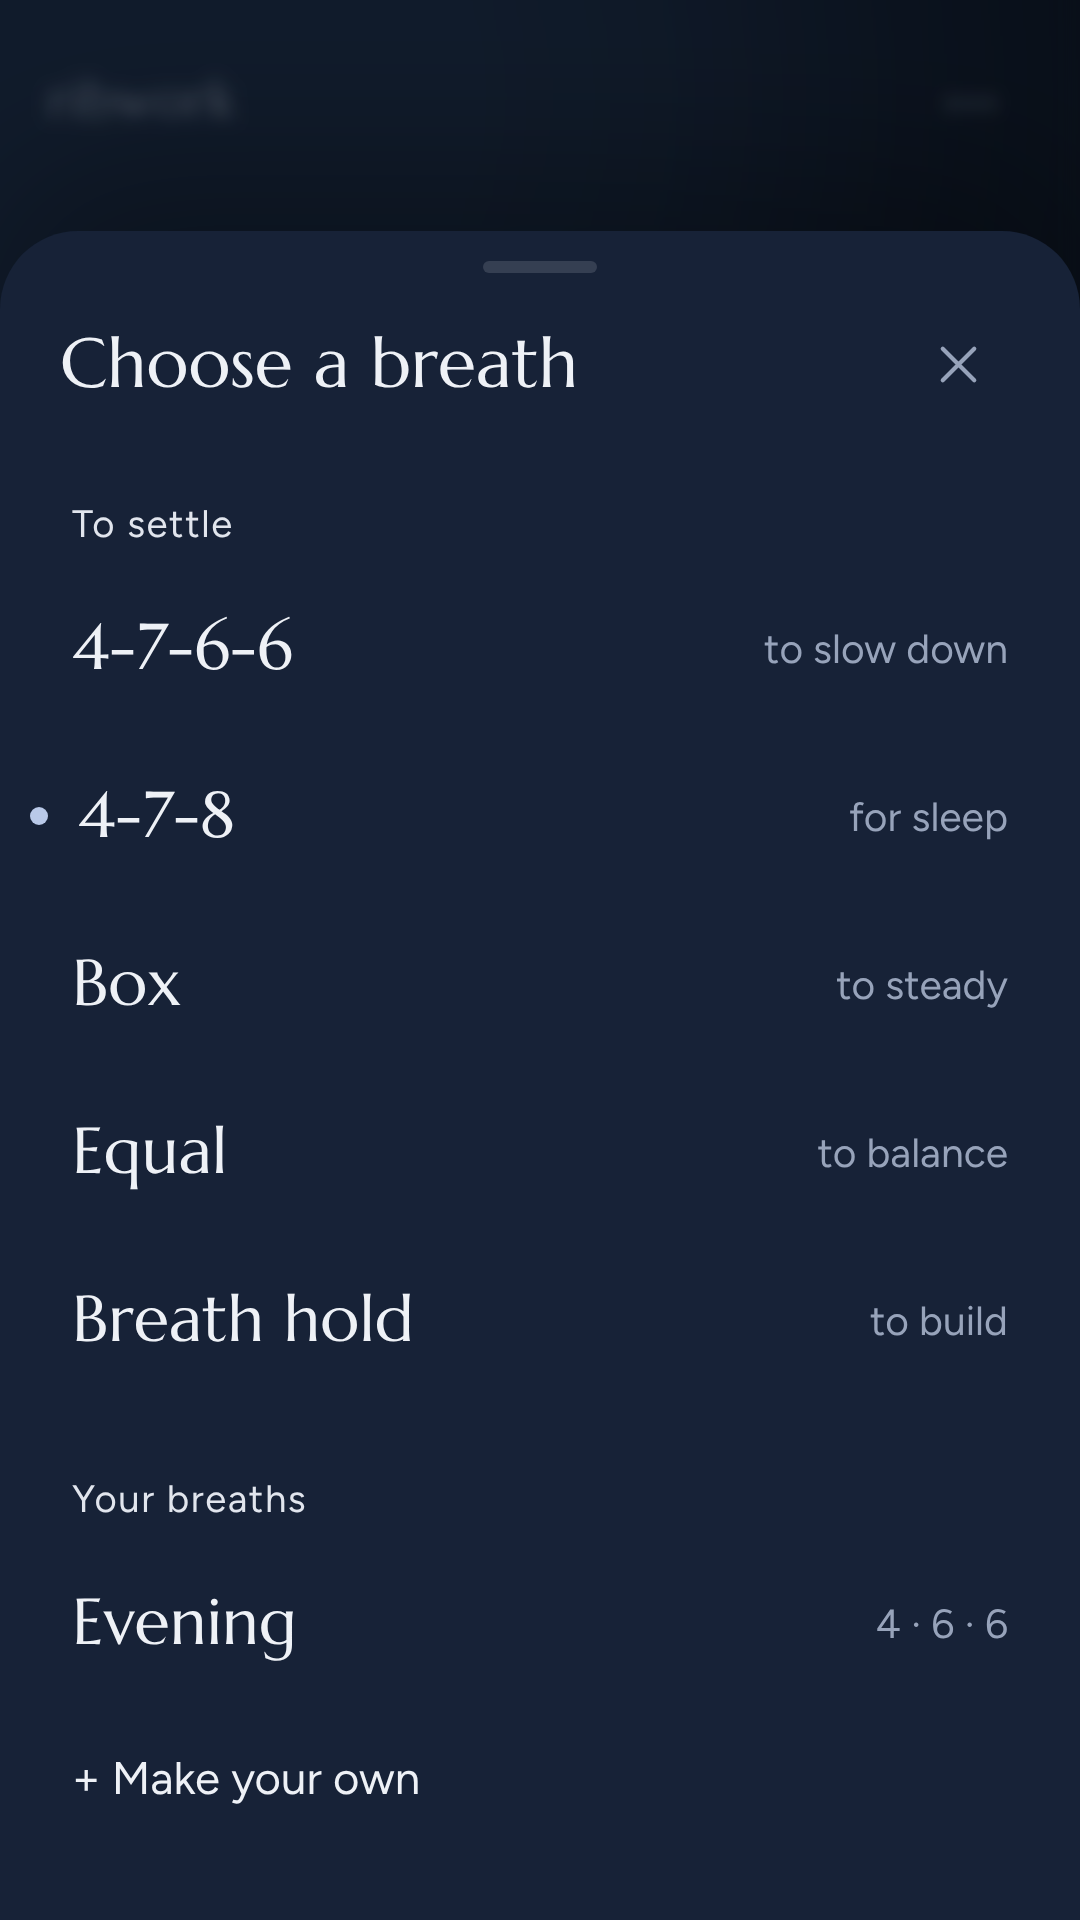
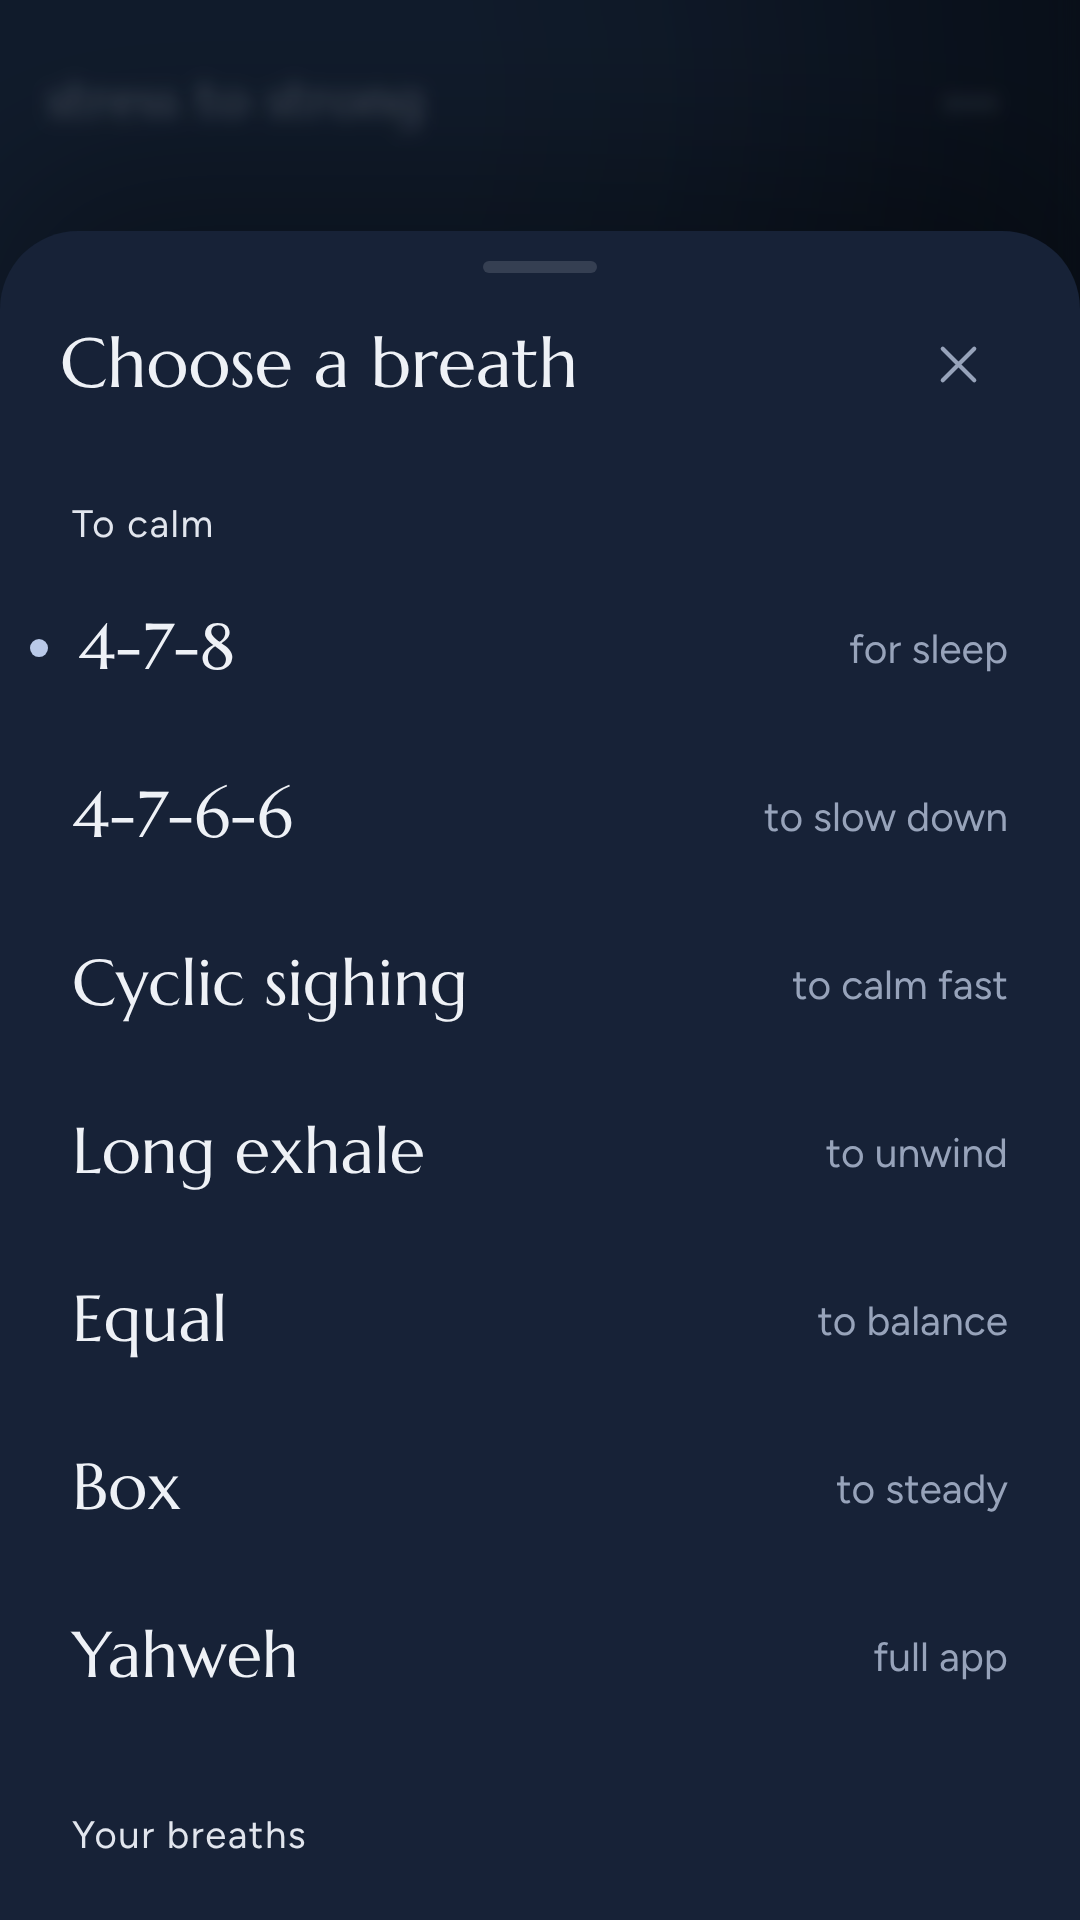
Rename to Stress to Strong; add cyclic sighing and long exhale
- New name: "Stress to Strong: Breathe" on Play, "Stress→Strong" under the
  launcher icon, "Stress to Strong" in the app header, menu, page title,
  web manifest and privacy policy. Package ID, purchase ID and saved data
  are unchanged.
- Cyclic sighing (free): in through the nose, a short top-up, then a long
  breath out.
- Long exhale (free): in 4, out 8.
- The breath list is grouped as "To calm" and "To build"; new installs
  start on 4-7-8.
- Privacy policy notes that the daily reminder stays on the device.
- New Play title, short and full description, screenshots and feature
  graphic.
- versionCode 10 / 3.1.0, service worker cache ribwork-v8.

Claude-Session: https://claude.ai/code/session_01AU9giQamNVHAvDZbgnuzeV

diff --git a/breathe/index.html b/breathe/index.html
@@ -3,8 +3,8 @@
 <head>
 <meta charset="UTF-8">
 <meta name="viewport" content="width=device-width, initial-scale=1.0, viewport-fit=cover">
-<title>Ribwork</title>
-<meta name="description" content="Ribwork breathwork for your ribcage and midline: breath training with deep breathing exercises: guided 4-7-6-6 breathing with sound, voice and vibration cues, plus resisted breathing, belt breaths, Valsalva and Müller maneuvers. Works offline, no account, no ads.">
+<title>Stress to Strong</title>
+<meta name="description" content="Stress to Strong: calm breathing first, then build your breath. 4-7-8, 4-7-6-6, cyclic sighing, long exhales, box and equal breathing, breath-hold practice, plus resisted breathing, belt breaths, Valsalva and Müller maneuvers. Works offline, no account, no ads.">
 <meta name="theme-color" content="#0e1522">
 <link rel="manifest" href="manifest.webmanifest">
 <link rel="icon" href="icon.svg" type="image/svg+xml">
@@ -590,7 +590,7 @@
 
 <div class="app">
   <header>
-    <div class="brand"><b>Ribwork</b><span id="brandTag">4 · 7 · 6 · 6</span></div>
+    <div class="brand"><b>Stress to Strong</b><span id="brandTag">4 · 7 · 6 · 6</span></div>
     <nav class="tools" aria-label="Menu">
       <button class="icon-btn" id="btn-menu" type="button" aria-label="Menu" aria-haspopup="dialog">
         <svg viewBox="0 0 24 24" fill="currentColor" aria-hidden="true"><circle cx="5" cy="12" r="1.6"/><circle cx="12" cy="12" r="1.6"/><circle cx="19" cy="12" r="1.6"/></svg>
@@ -666,7 +666,7 @@
 <dialog id="dlg-menu" aria-labelledby="menu-title">
   <div class="sheet">
     <div class="grabber"></div>
-    <div class="sheet-head"><h2 id="menu-title">Ribwork</h2><button class="icon-btn" type="button" data-close aria-label="Close"><svg viewBox="0 0 24 24" fill="none" stroke="currentColor" stroke-width="1.6" stroke-linecap="round"><path d="M6 6l12 12M18 6L6 18"/></svg></button></div>
+    <div class="sheet-head"><h2 id="menu-title">Stress to Strong</h2><button class="icon-btn" type="button" data-close aria-label="Close"><svg viewBox="0 0 24 24" fill="none" stroke="currentColor" stroke-width="1.6" stroke-linecap="round"><path d="M6 6l12 12M18 6L6 18"/></svg></button></div>
     <div class="menu-list">
       <button class="menu-row" id="btn-info" type="button">About this breath</button>
       <button class="menu-row" id="btn-stats" type="button">Your practice</button>
@@ -1002,7 +1002,7 @@
     set(k, v) { try { localStorage.setItem(k, JSON.stringify(v)); } catch {} },
   };
   const DEFAULTS = {
-    ex: '4766', minutes: 5, rounds: 3, method: 'pinched', vStrain: 10, mStrain: 8, recovery: 45,
+    ex: '478', minutes: 5, rounds: 3, method: 'pinched', vStrain: 10, mStrain: 8, recovery: 45,
     sound: 'bowl', ambience: 'none', volume: 0.7, voice: false, haptics: true, counts: false, scene: 'auto', remind: { on: false, time: '21:00' },
   };
   const set = Object.assign({}, DEFAULTS, store.get('ribwork.settings', {}));
@@ -1065,20 +1065,20 @@
   const ADV = ['4766', 'valsalva', 'muller', 'resisted', 'belt'];
   // The exercise sheet: free breaths first, then the full app.
   const EX_GROUPS = [
-    { label: 'To settle', ids: ['4766', '478', 'box', 'equal', 'hold'] },
+    { label: 'To calm', ids: ['478', '4766', 'sigh', 'long', 'equal', 'box', 'yahweh'] },
     { label: 'Your breaths', custom: true, ids: [] },
-    { label: 'To train your ribs', ids: ['yahweh', 'bunny', 'resisted', 'belt', 'valsalva', 'muller'] },
+    { label: 'To build', ids: ['hold', 'resisted', 'belt', 'valsalva', 'muller', 'bunny'] },
   ];
   const BLURB = {
-    '4766': 'Slow everything down', '478': 'Wind down for sleep', box: 'Steady under pressure', hold: 'Longer holds, step by step',
+    '4766': 'Slow everything down', '478': 'Wind down for sleep', box: 'Steady under pressure', sigh: 'Two breaths in, one long out', long: 'Out twice as long as in', hold: 'Longer holds, step by step',
     yahweh: 'A silent breath prayer', bunny: 'Quick sniffs to reset', resisted: 'Pinched nose or fist pinhole',
     belt: 'Ribs, arms and twists', valsalva: 'Bear down, then recover', muller: 'Pull in, then recover',
   };
-  const PICK_NAME = { '4766': '4-7-6-6 breathing', '478': '4-7-8 breathing', box: 'Box breathing', equal: 'Equal breathing', hold: 'Breath-hold practice', holdcheck: 'Hold check' };
+  const PICK_NAME = { '4766': '4-7-6-6 breathing', '478': '4-7-8 breathing', box: 'Box breathing', equal: 'Equal breathing', sigh: 'Cyclic sighing', long: 'Long exhale', hold: 'Breath-hold practice', holdcheck: 'Hold check' };
   // What each breath is for, in the quiet list.
   const PURPOSE = {
-    '4766': 'to slow down', '478': 'for sleep', box: 'to steady', equal: 'to balance', hold: 'to build',
-    yahweh: 'to pray', bunny: 'to reset', resisted: 'to strengthen', belt: 'to expand', valsalva: 'to brace', muller: 'to pull in',
+    '4766': 'to slow down', '478': 'for sleep', sigh: 'to calm fast', long: 'to unwind', box: 'to steady', equal: 'to balance', yahweh: 'to pray',
+    hold: 'longer holds', resisted: 'breath strength', belt: 'rib expansion', valsalva: 'to brace', muller: 'to pull in', bunny: 'to wake up',
   };
 
   // ---------- Your own breaths ----------
@@ -1162,6 +1162,35 @@
       info: {
         lead: 'In for 5, out for 5, with no holds: six breaths a minute. Matching the length of each breath in and out is one of the simplest ways to steady yourself, and the easiest place to start.',
         how: ['Sit or lie comfortably and let your shoulders drop.', 'Breathe in through your nose for 5, smoothly, without straining to fill up.', 'Breathe out for 5, just as slowly.', 'Keep it soft. If 5 feels long, it gets easier after a minute or two.'],
+        care: 'If you feel lightheaded, return to your normal breathing. This app is for relaxation and is not medical advice.',
+      },
+    },
+    sigh: {
+      name: 'Cyclic sighing', title: 'cyclic sighing', tag: 'Sigh', free: true, unit: ['sigh', 'sighs'],
+      idle: ['Breathe with me', 'two breaths in, one long breath out'],
+      lead: { d: 4, word: 'Settle in', hint: 'breathe out gently', say: 'Settle in' },
+      phases: () => [
+        { k: 'in', vis: 'rise', to: 0.9, word: 'Breathe in', d: 3, hint: 'through the nose, most of the way', say: 'Breathe in', label: 'Inhale' },
+        { k: 'in2', vis: 'rise', from: 0.9, word: 'In again', d: 1, hint: 'a short sip to top up', label: 'Top up' },
+        { k: 'out', vis: 'fall', word: 'Breathe out', d: 6, hint: 'long and slow, through the mouth', say: 'Breathe out', label: 'Exhale' },
+      ],
+      info: {
+        lead: 'Two breaths in through the nose, a long one and a short top-up, then a long, slow breath out through the mouth. Also called the physiological sigh. In a 2023 Stanford study, five minutes of cyclic sighing a day lifted mood more than the same time spent in mindfulness meditation.',
+        how: ['Breathe in through your nose until you are nearly full.', 'Take one more short sip of air through the nose to top up.', 'Let it all go slowly through your mouth, longer than the breaths in.', 'Five minutes is plenty. Keep it gentle, never forced.'],
+        care: 'If you feel lightheaded, return to your normal breathing. This app is for relaxation and is not medical advice.',
+      },
+    },
+    long: {
+      name: 'Long exhale', title: 'long-exhale breathing', tag: '4 · 8', free: true, unit: ['breath', 'breaths'],
+      idle: ['Breathe with me', 'out twice as long as in'],
+      lead: { d: 4, word: 'Settle in', hint: 'breathe out gently', say: 'Settle in' },
+      phases: () => [
+        { k: 'in', vis: 'rise', word: 'Breathe in', d: 4, hint: 'soft, through the nose', say: 'Breathe in', label: 'Inhale' },
+        { k: 'out', vis: 'fall', word: 'Breathe out', d: 8, hint: 'slowly, all the way out', say: 'Breathe out', label: 'Exhale' },
+      ],
+      info: {
+        lead: 'In for 4, out for 8. Making the breath out longer than the breath in is the simplest way to tell your body it can slow down, and it needs no holds.',
+        how: ['Breathe in through your nose for 4.', 'Breathe out for 8, through the nose or softly through pursed lips.', 'Let the end of each breath out be quiet and unhurried.', 'If 8 feels long, it gets easier after a few rounds.'],
         care: 'If you feel lightheaded, return to your normal breathing. This app is for relaxation and is not medical advice.',
       },
     },
@@ -1439,7 +1468,7 @@
     let end = 0;
     for (let i = 0; i < steps.length; i++) { end += steps[i].d; if (t < end || i === steps.length - 1) return { i, step: steps[i], left: end - t }; }
   }
-  const isMinutes = () => ['4766', '478', 'box', 'equal', 'bunny', 'yahweh', 'resisted'].includes(P.id) || !!P.ex.custom;
+  const isMinutes = () => ['4766', '478', 'box', 'equal', 'sigh', 'long', 'bunny', 'yahweh', 'resisted'].includes(P.id) || !!P.ex.custom;
   const cyclesFor = () => {
     if (P.ex.rounds) return P.ex.rounds;
     if (!isMinutes()) return set.rounds;
@@ -1832,7 +1861,7 @@
     if (!Pro.checked) status.textContent = 'Connecting to Google Play…';
     else if (canPay()) status.textContent = Pro.pending ? 'Your payment is pending in Google Play. The full app unlocks once it goes through.' : '';
     else if (isNative) status.textContent = "Couldn't connect to Google Play. Check that you're signed in to the Play Store and online.";
-    else status.textContent = 'The full app unlocks in Ribwork for Android, from Google Play.';
+    else status.textContent = 'The full app unlocks in Stress to Strong for Android, from Google Play.';
   }
   function refreshLocks() {
     el.exercises.querySelectorAll('.ex-btn').forEach((b) => {
@@ -2312,7 +2341,7 @@
   function phaseScale(st) {
     const p = P.ph[st.i], jitter = reduceMotion.matches ? 0 : 1;
     switch (p.vis) {
-      case 'rise': return lerp(SMIN, SMAX, easeInOut(st.p));
+      case 'rise': return lerp(p.from ?? SMIN, p.to ?? SMAX, easeInOut(st.p));
       case 'full': return SMAX + jitter * 0.008 * Math.sin(st.pt * 1.6);
       case 'fall': return lerp(START.fall, SMIN, easeInOut(st.p));
       case 'empty': return SMIN;
@@ -2548,7 +2577,7 @@
   $('btn-remind').addEventListener('click', () => {
     const r = set.remind || { on: false, time: '21:00' };
     $('remOn').checked = !!r.on; $('remTime').value = r.time;
-    $('remStatus').textContent = Native.notes ? '' : 'Reminders work in the Ribwork app for Android.';
+    $('remStatus').textContent = Native.notes ? '' : 'Reminders work in the Stress to Strong app for Android.';
     $('remOn').disabled = !Native.notes; $('remTime').disabled = !Native.notes;
     openDialog('dlg-remind');
   });
@@ -2563,12 +2592,12 @@
       if (perm.display !== 'granted') perm = await n.requestPermissions();
       if (perm.display !== 'granted') {
         r.on = false; saveSettings(); $('remOn').checked = false;
-        $('remStatus').textContent = 'Notifications are turned off for Ribwork. Allow them in your phone settings to get a reminder.';
+        $('remStatus').textContent = 'Notifications are turned off for Stress to Strong. Allow them in your phone settings to get a reminder.';
         return;
       }
       const [hour, minute] = r.time.split(':').map(Number);
       await n.schedule({ notifications: [{
-        id: REMIND_ID, title: 'Time to breathe', body: 'A few calm minutes with Ribwork.',
+        id: REMIND_ID, title: 'Time to breathe', body: 'A few calm minutes to breathe.',
         schedule: { on: { hour, minute }, allowWhileIdle: false }, isExactNotification: false, smallIcon: 'ic_stat_ribwork',
       }] });
       $('remStatus').textContent = `Every day at ${r.time}.`;

diff --git a/breathe/privacy.html b/breathe/privacy.html
@@ -3,7 +3,7 @@
 <head>
 <meta charset="UTF-8">
 <meta name="viewport" content="width=device-width, initial-scale=1.0">
-<title>Privacy Policy — Ribwork</title>
+<title>Privacy Policy — Stress to Strong</title>
 <style>
   body {
     font-family: -apple-system, BlinkMacSystemFont, "Segoe UI", Roboto, Helvetica, Arial, sans-serif;
@@ -24,11 +24,11 @@
 </head>
 <body>
 
-<h1>Privacy Policy for Ribwork</h1>
+<h1>Privacy Policy for Stress to Strong</h1>
 <p class="updated">Last updated: September 29, 2026</p>
 
 <h2>Overview</h2>
-<p>Ribwork ("the App") is a guided breathing app offering 4-7-6-6 breathing and, with a one-time unlock, guided Valsalva and Müller maneuvers, resisted breathing, bunny breathing, the Yahweh breath prayer and belt breaths. This Privacy Policy explains how the App handles user data.</p>
+<p>Stress to Strong, formerly Ribwork ("the App"), is a guided breathing app offering free calm-breathing exercises and breath-hold practice and, with a one-time unlock, guided Valsalva and Müller maneuvers, resisted breathing, bunny breathing, the Yahweh breath prayer and belt breaths. This Privacy Policy explains how the App handles user data.</p>
 
 <h2>Data Collection</h2>
 <p><strong>The App does not collect, transmit, or share any personal data with the developer or any third party.</strong></p>
@@ -44,12 +44,14 @@
 <p>The App saves your settings, your session history (date, length, and number of breaths or rounds), whether you have read an exercise's safety notes, and whether you own the full-app unlock. This data is stored only in the App's storage on your device and never leaves your device. Uninstalling the App or clearing its data deletes it.</p>
 <p>The App may keep your screen awake during a session and may vibrate your device at each phase change. The voice guide plays recordings that come with the App; if a recording is missing, it uses your device's built-in speech engine instead. The App never uses your microphone.</p>
 
+<p>If you turn on the daily reminder, the App asks your permission to show notifications and schedules the reminder on your device. Nothing about it leaves your device.</p>
+
 <h2>Purchases</h2>
 <p>The optional full-app unlock is sold through Google Play. Payment is handled entirely by Google Play under <a href="https://policies.google.com/privacy">Google's Privacy Policy</a>; the App never sees your payment details. The App asks Google Play only whether your account owns the unlock. The App confirms the purchase with Google Play on your device and sends nothing to the developer.</p>
 
 <h2>Network Access</h2>
 <p>The Android app's screens, sounds, fonts and voice recordings are all built into the App, so it works offline and makes no network requests of its own. It connects to the internet only through Google Play, to show the unlock price and handle purchases.</p>
-<p>Ribwork is also available as a web page hosted on GitHub Pages. If you use that version, your browser downloads it from GitHub, which receives your IP address and basic device information with these requests, under the <a href="https://docs.github.com/en/site-policy/privacy-policies/github-general-privacy-statement">GitHub Privacy Statement</a>. The developer does not receive or see this information.</p>
+<p>The App is also available as a web page hosted on GitHub Pages. If you use that version, your browser downloads it from GitHub, which receives your IP address and basic device information with these requests, under the <a href="https://docs.github.com/en/site-policy/privacy-policies/github-general-privacy-statement">GitHub Privacy Statement</a>. The developer does not receive or see this information.</p>
 
 <h2>Health Information</h2>
 <p>The App does not ask for or record any health information. The Valsalva and Müller maneuvers, resisted breathing, bunny breathing, Yahweh breath prayer and belt breath exercises are guided timers only and are not medical advice.</p>

diff --git a/breathe/sw.js b/breathe/sw.js
@@ -1,5 +1,5 @@
 // Offline support for the web version: precache the app shell, fonts and voice clips.
-const CACHE = 'ribwork-v7';
+const CACHE = 'ribwork-v8';
 const SHELL = ['./', './index.html', './manifest.webmanifest', './icon.svg', './icon-192.png', './icon-512.png', './icon-180.png', './privacy.html', './fonts/figtree-latin.woff2', './fonts/marcellus-latin.woff2'];
 
 // Voice clips are listed in voice/index.json and precached so guided sessions work offline.

diff --git a/play-store/README.md b/play-store/README.md
@@ -2,13 +2,15 @@
 
 | File | Where it goes in Play Console | Spec |
 |---|---|---|
-| `short-description.txt` | Main store listing → Short description | 74 / 80 characters |
-| `full-description.txt` | Main store listing → Full description | 3,158 / 4,000 characters |
+| `short-description.txt` | Main store listing → Short description | 75 / 80 characters |
+| `full-description.txt` | Main store listing → Full description | 3,267 / 4,000 characters |
 | `app-icon-512.png` | Main store listing → App icon | 512 × 512 PNG, full bleed (Play rounds the corners) |
 | `feature-graphic-1024x500.png` | Main store listing → Feature graphic | 1024 × 500 PNG |
 | `screenshots/*.png` | Main store listing → Phone screenshots | 1080 × 1920 (9:16), upload in number order |
 
 Screenshots were taken from the real app at a 360 × 640 phone size (3× scale), in order:
-home with 4-7-8 selected, a 4-7-8 breath out, the breath list with a custom breath, Make your own,
+home with 4-7-8 selected, cyclic sighing (the top-up breath), the breath list, Make your own,
 a breath-hold practice hold (Tide), the hold check result (Moss), Valsalva with controls shown (Moss),
-and equal breathing in the light Dawn theme.
+and a long exhale in the light Dawn theme.
+
+App name for Play: **Stress to Strong: Breathe** (see `breathe/store-listing.md`).

diff --git a/breathe/store-listing.md b/breathe/store-listing.md
@@ -9,17 +9,19 @@ and don't list keywords or use words like "best" or "#1": Play's metadata policy
 
 ## App name (max 30 characters)
 
-    4-7-8 & Box Breathing: Ribwork
+    Stress to Strong: Breathe
 
-30 characters. Leads with the two most-searched named breathing patterns, which the app
-offers free; the brand, Ribwork, stays as the home-screen label. Only name patterns the app
-really has: Play rejects misleading keywords.
+25 characters. The brand comes first so it stands apart from the many apps called
+"Breathe", and it uses plain words that Play won't spell-correct. "Stress" and "Breathe"
+are both words people search for. The home-screen label is shorter, `Stress→Strong`
+(`app_name` in `android/app/src/main/res/values/strings.xml`), so launchers don't cut it off.
+Formerly "4-7-8 & Box Breathing: Ribwork"; the package ID and in-app product ID are unchanged.
 
 ## Short description (max 80 characters)
 
-    4-7-8, box and 4-7-6-6 breathing, plus ribcage and midline breath training
+    Calm your breath, then build it: 4-7-8, long exhales, breath holds and ribs
 
-74 characters. Covers "4-7-8", "box breathing", "4-7-6-6" and the training side.
+75 characters. Says what the name means and covers the main search terms.
 
 ## Full description (max 4000 characters)
 
